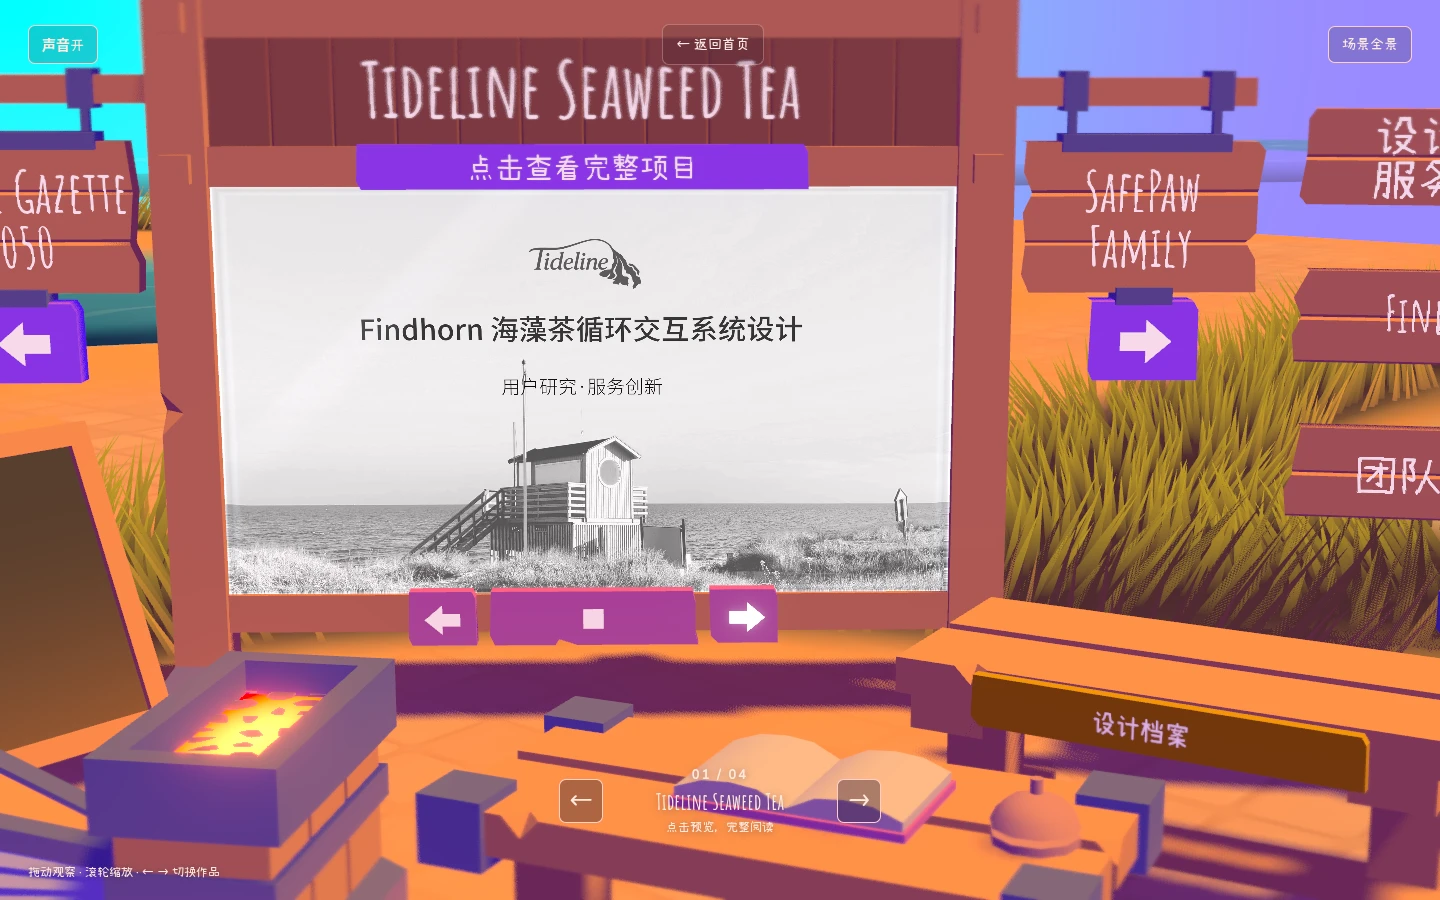
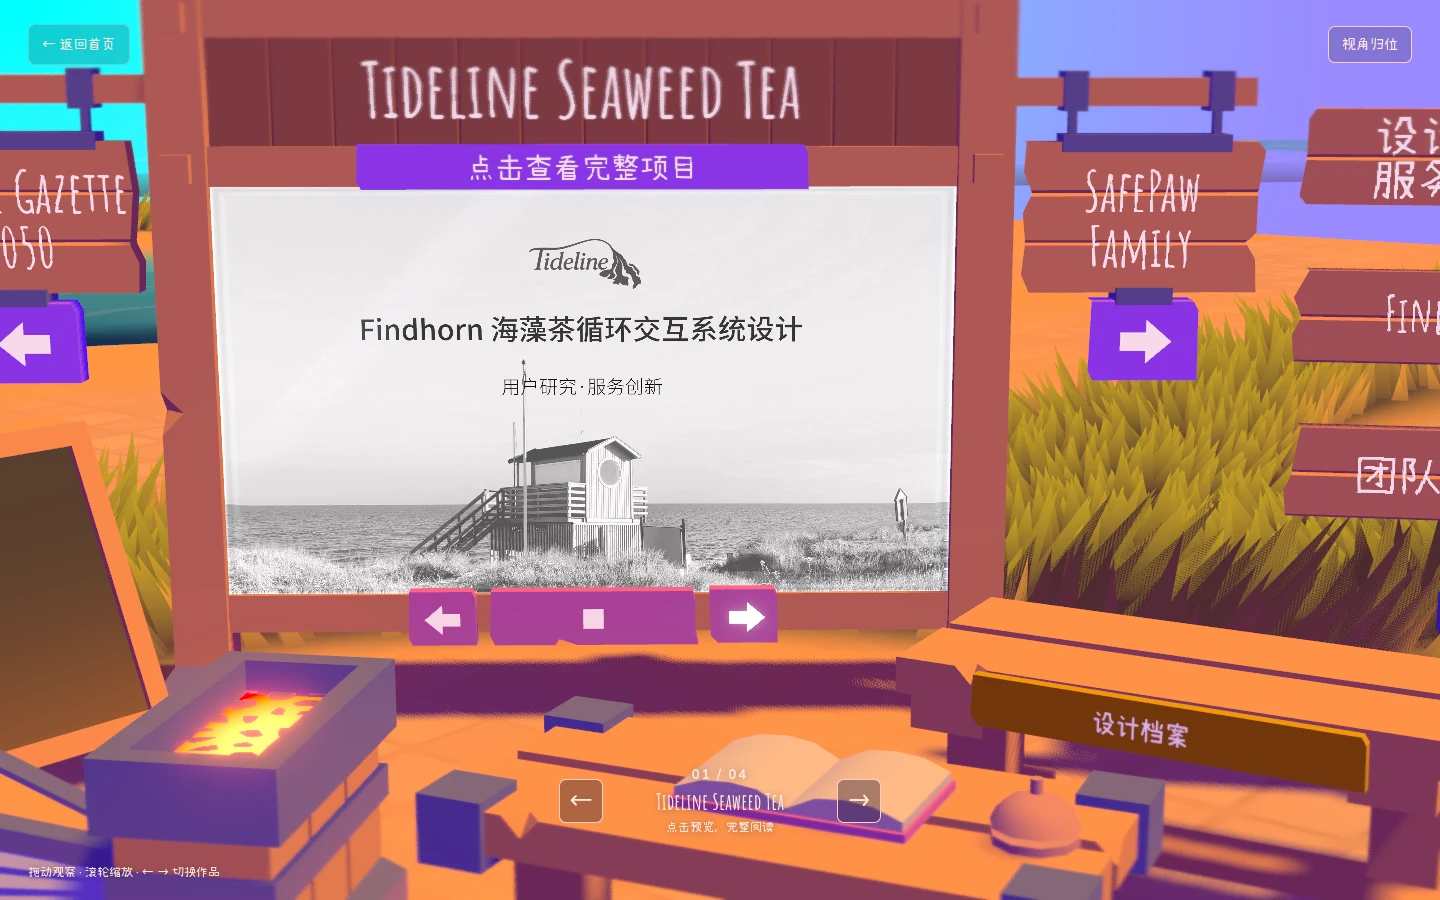
Restore subtle grass proportions and remove audio and overview controls

diff --git a/experiments/bruno-projects/src/main.js b/experiments/bruno-projects/src/main.js
@@ -1,4 +1,3 @@
-import { getWorldAudio } from "./world-audio.js";
 import { addWorldAtmosphere } from "./world-atmosphere.js";
 import * as T from "three/webgpu";
 import {
@@ -33,8 +32,6 @@ import { cheapDOF } from "./bruno/Passes/cheapDOF.js";
 import data from "./data/projects.js";
 import { MeshDefaultMaterial } from "./bruno/Materials/MeshDefaultMaterial.js";
 
-const worldAudio = getWorldAudio();
-worldAudio.bind(document);
 const $ = (id) => document.getElementById(id),
   reduced = matchMedia("(prefers-reduced-motion: reduce)").matches;
 gsap.ticker.lagSmoothing(0);
@@ -51,8 +48,7 @@ let selected = 0,
   pipeline,
   game,
   baseCamera,
-  baseTarget,
-  overview = false;
+  baseTarget;
 const reader = $("reader"),
   frames = new Map();
 function readWork() {
@@ -407,9 +403,9 @@ try {
   Trees.prototype.setPhysical = noop;
   game.world.floor = new Floor();
   game.world.grass = new Grass();
-  game.world.grass.bladeWidth.value = 0.045;
-  game.world.grass.bladeHeight.value = 1.02;
-  game.world.grass.bladeHeightRandomness.value = 0.45;
+  game.world.grass.bladeWidth.value *= 0.90;
+  game.world.grass.bladeHeight.value *= 1.07;
+  game.world.grass.bladeHeightRandomness.value = 0.6;
   game.world.atmosphere = addWorldAtmosphere(game, matchMedia("(prefers-reduced-motion: reduce)").matches);
   const near = (object) =>
     Math.hypot(object.position.x - center.x, object.position.z - center.z) < 33;
@@ -623,10 +619,10 @@ try {
     screenCenter = new T.Box3()
       .setFromObject(screen)
       .getCenter(new T.Vector3());
-  $("overview").onclick = () => {
-    overview = !overview;
-    targetZoom = overview ? 1.7 : 1;
-    $("overview").textContent = overview ? "展示近景" : "场景全景";
+  $("reset-view").onclick = () => {
+    targetYaw = 0;
+    targetPitch = 0;
+    targetZoom = 1;
   };
   function resize() {
     camera.aspect = innerWidth / innerHeight;
@@ -743,7 +739,6 @@ try {
     pointers.delete(event.pointerId);
     if (pointers.size) return;
     if (!dragged && !pinched) {
-      if(pressed)worldAudio.play();
       pressed?.onClick?.();
       syncSelection();
     }

diff --git a/experiments/bruno-projects/src/hub.js b/experiments/bruno-projects/src/hub.js
@@ -1,4 +1,3 @@
-import { getWorldAudio } from "./world-audio.js";
 import { T, createWorld } from "./create-world.js";
 import { texture, uniform } from "three/tsl";
 import { createFixtures } from "./scene-fixtures.js";
@@ -7,8 +6,6 @@ import { referenceViews } from "./scene-views.js";
 import { MeshDefaultMaterial } from "./bruno/Materials/MeshDefaultMaterial.js";
 import "../../../resume.js";
 
-const worldAudio = getWorldAudio();
-worldAudio.bind(document);
 const $ = (id) => document.getElementById(id),
   profile = window.RESUME;
 const reduced = matchMedia("(prefers-reduced-motion: reduce)").matches;
@@ -189,7 +186,6 @@ function go(next, historyMode = "push") {
   document.title =
     place === "home" ? "王钰欣 / CECILIA" : `${labels[place]} · 王钰欣`;
   $("back-home").hidden = place === "home";
-  $("overview-world").hidden = place !== "home";
   $("feedback").textContent = "";
   $("place-actions").replaceChildren();
   $("place-actions").hidden = place === "home";
@@ -527,12 +523,6 @@ try {
   world.setTheme(false);
   try{localStorage.setItem("resume-theme","light");}catch{}
   $("reset-view").onclick = () => go("home", "replace");
-  $("overview-world").onclick = () => {
-    targetLook.set(35, 2, 25);
-    targetDistance = innerWidth < 700 ? 78 : 60;
-    targetPitch = 0.85;
-    targetYaw = 0.5;
-  };
   const ray = new T.Raycaster(),
     pointer = new T.Vector2();
   function pick(x, y) {
@@ -613,7 +603,6 @@ try {
     pointers.delete(e.pointerId);
     if (pointers.size) return;
     if (!drag && !pinched && pressed) {
-      worldAudio.play(pressed === "map" ? "map" : pressed.isObject3D ? "device" : "click");
       if (pressed === "map") {showMapHint(false);navigationMap.open();}
       else if(pressed === "contact-mail")location.href=social.userData.mailto;
       else if(pressed === "resume-preview")openCurrent();

diff --git a/experiments/bruno-projects/src/create-world.js b/experiments/bruno-projects/src/create-world.js
@@ -288,9 +288,9 @@ export async function createWorld(canvas, progress) {
   game.world.floor = new Floor();
   game.view.optimalArea.radius = 45;
   game.world.grass = new Grass();
-  game.world.grass.bladeWidth.value = 0.045;
-  game.world.grass.bladeHeight.value = 1.02;
-  game.world.grass.bladeHeightRandomness.value = 0.45;
+  game.world.grass.bladeWidth.value *= 0.90;
+  game.world.grass.bladeHeight.value = 0.70;
+  game.world.grass.bladeHeightRandomness.value = 0.6;
   game.world.atmosphere = addWorldAtmosphere(game, matchMedia("(prefers-reduced-motion: reduce)").matches);
 
   const near = (object) =>

diff --git a/experiments/bruno-projects/hub.html b/experiments/bruno-projects/hub.html
@@ -23,11 +23,9 @@
       ><a href="#other">03 其他项目</a><a href="#contact">04 联系方式</a>
     </nav>
     <header>
-      <button id="sound-toggle" type="button" aria-pressed="true">声音开</button>
       <button id="back-home" hidden>← 返回首页</button>
       <div>
-        <button id="reset-view">视角归位</button
-        ><button id="overview-world">场景全景</button>
+        <button id="reset-view">视角归位</button>
       </div>
     </header>
     <p id="loading" role="status">正在布置设计世界…</p>

diff --git a/experiments/bruno-projects/index.html b/experiments/bruno-projects/index.html
@@ -14,10 +14,9 @@
       aria-label="作品展架，支持拖动观察、点击图片阅读"
     ></canvas>
     <header>
-      <button id="sound-toggle" type="button" aria-pressed="true">声音开</button>
       <a id="back-site" href="../index.html">← 返回首页</a>
       <div>
-        <button id="overview">场景全景</button>
+        <button id="reset-view">视角归位</button>
       </div>
     </header>
     <p id="loading" role="status">正在布置作品展架…</p>
